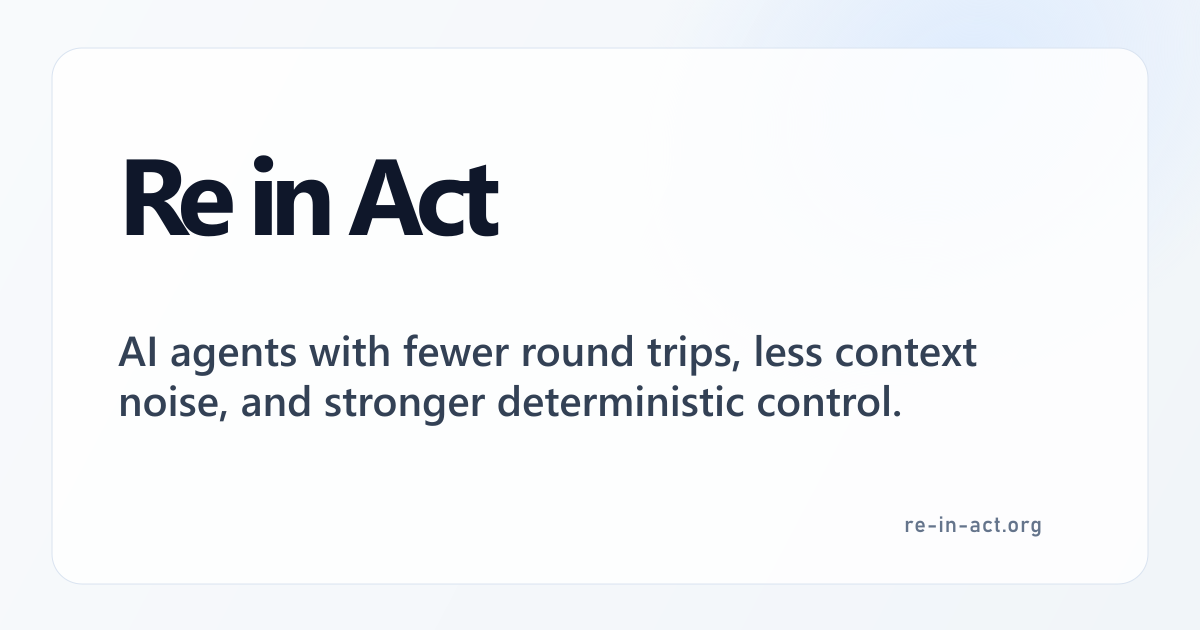
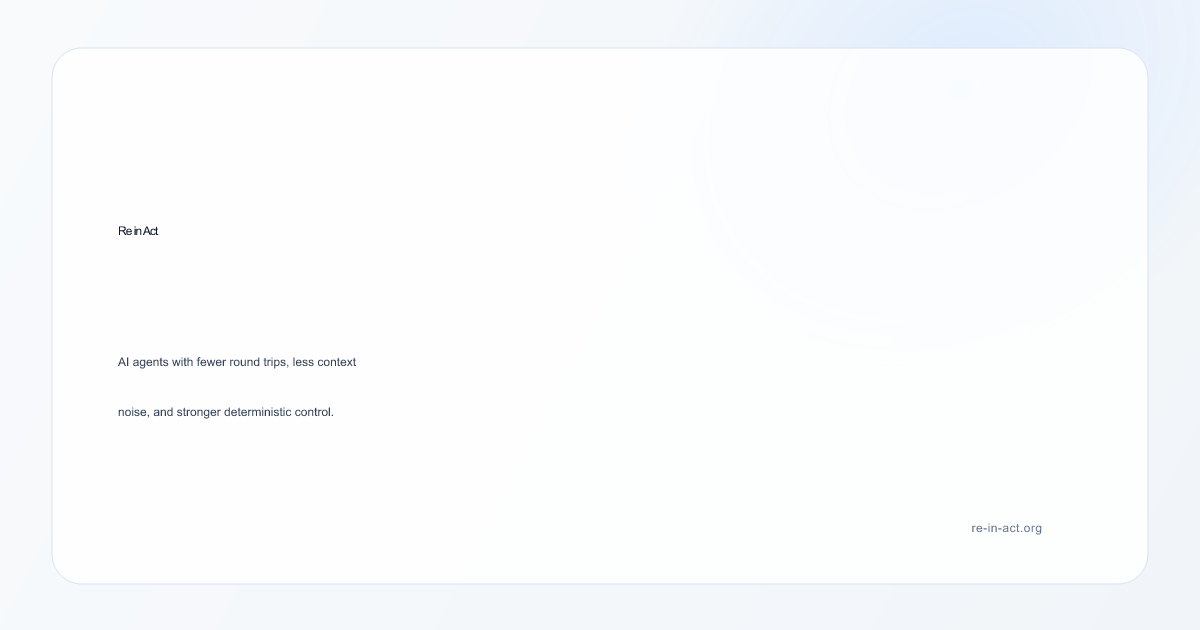
fix: replace sharp with @resvg/resvg-js for SVG->PNG
sharp/librsvg does not support CSS letter-spacing, causing
text overflow in the OG image. @resvg/resvg-js has full
SVG CSS support and renders identically to browsers.

Changed region(s): [[0.0925, 0.5429, 0.8325, 0.6937], [0.0925, 0.2413, 0.4317, 0.3921], [0.74, 0.8143, 0.8633, 0.8444]]

diff --git a/diagrams/2026-05-18T073437/delegatedTask.js b/diagrams/2026-05-18T073437/delegatedTask.js
@@ -1,0 +1,18 @@
+async function delegatedTask(maxAttempts = 3, maxSteps = 40) {
+  for (let i = 1; i <= maxAttempts; i++) {
+    const r = await agent(goal, { budget: { maxSteps } });
+
+    if (r.error) {
+      const v = await reason(goal, { observation: r.error });
+      if (v.action === "retry") continue;
+      return { status: "escalate", reason: v.reason };
+    }
+
+    const traj = extractTrajectory(r);
+    const v = await reason(goal, { observation: r.data.text, trajectory: traj });
+
+    if (v.action === "done") return v.data;
+    if (v.action === "continue") continue;
+    return { status: "escalate", reason: v.reason };
+  }
+}
